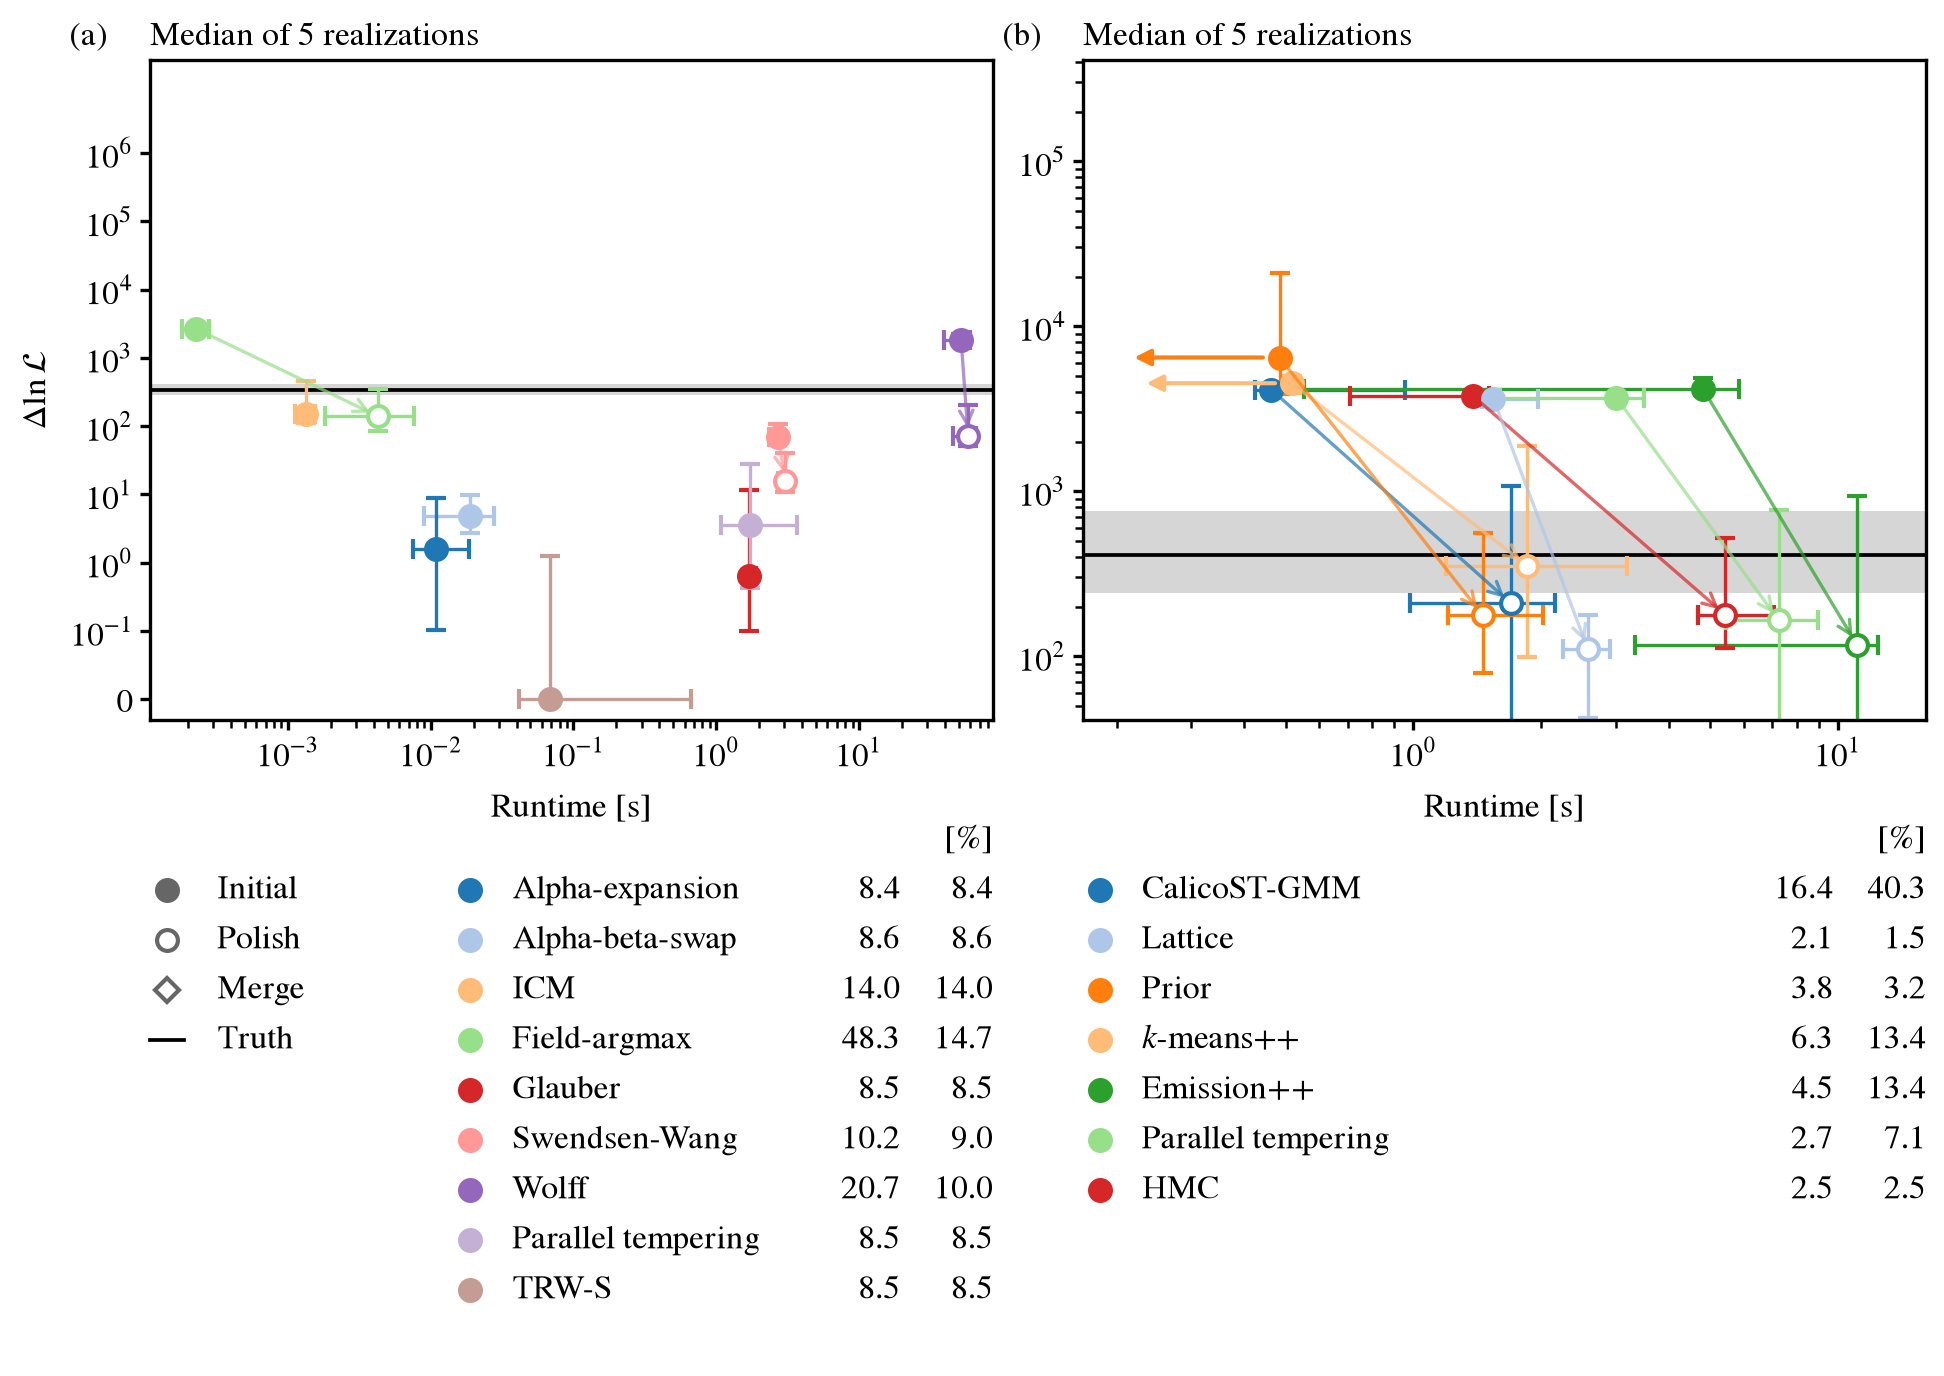
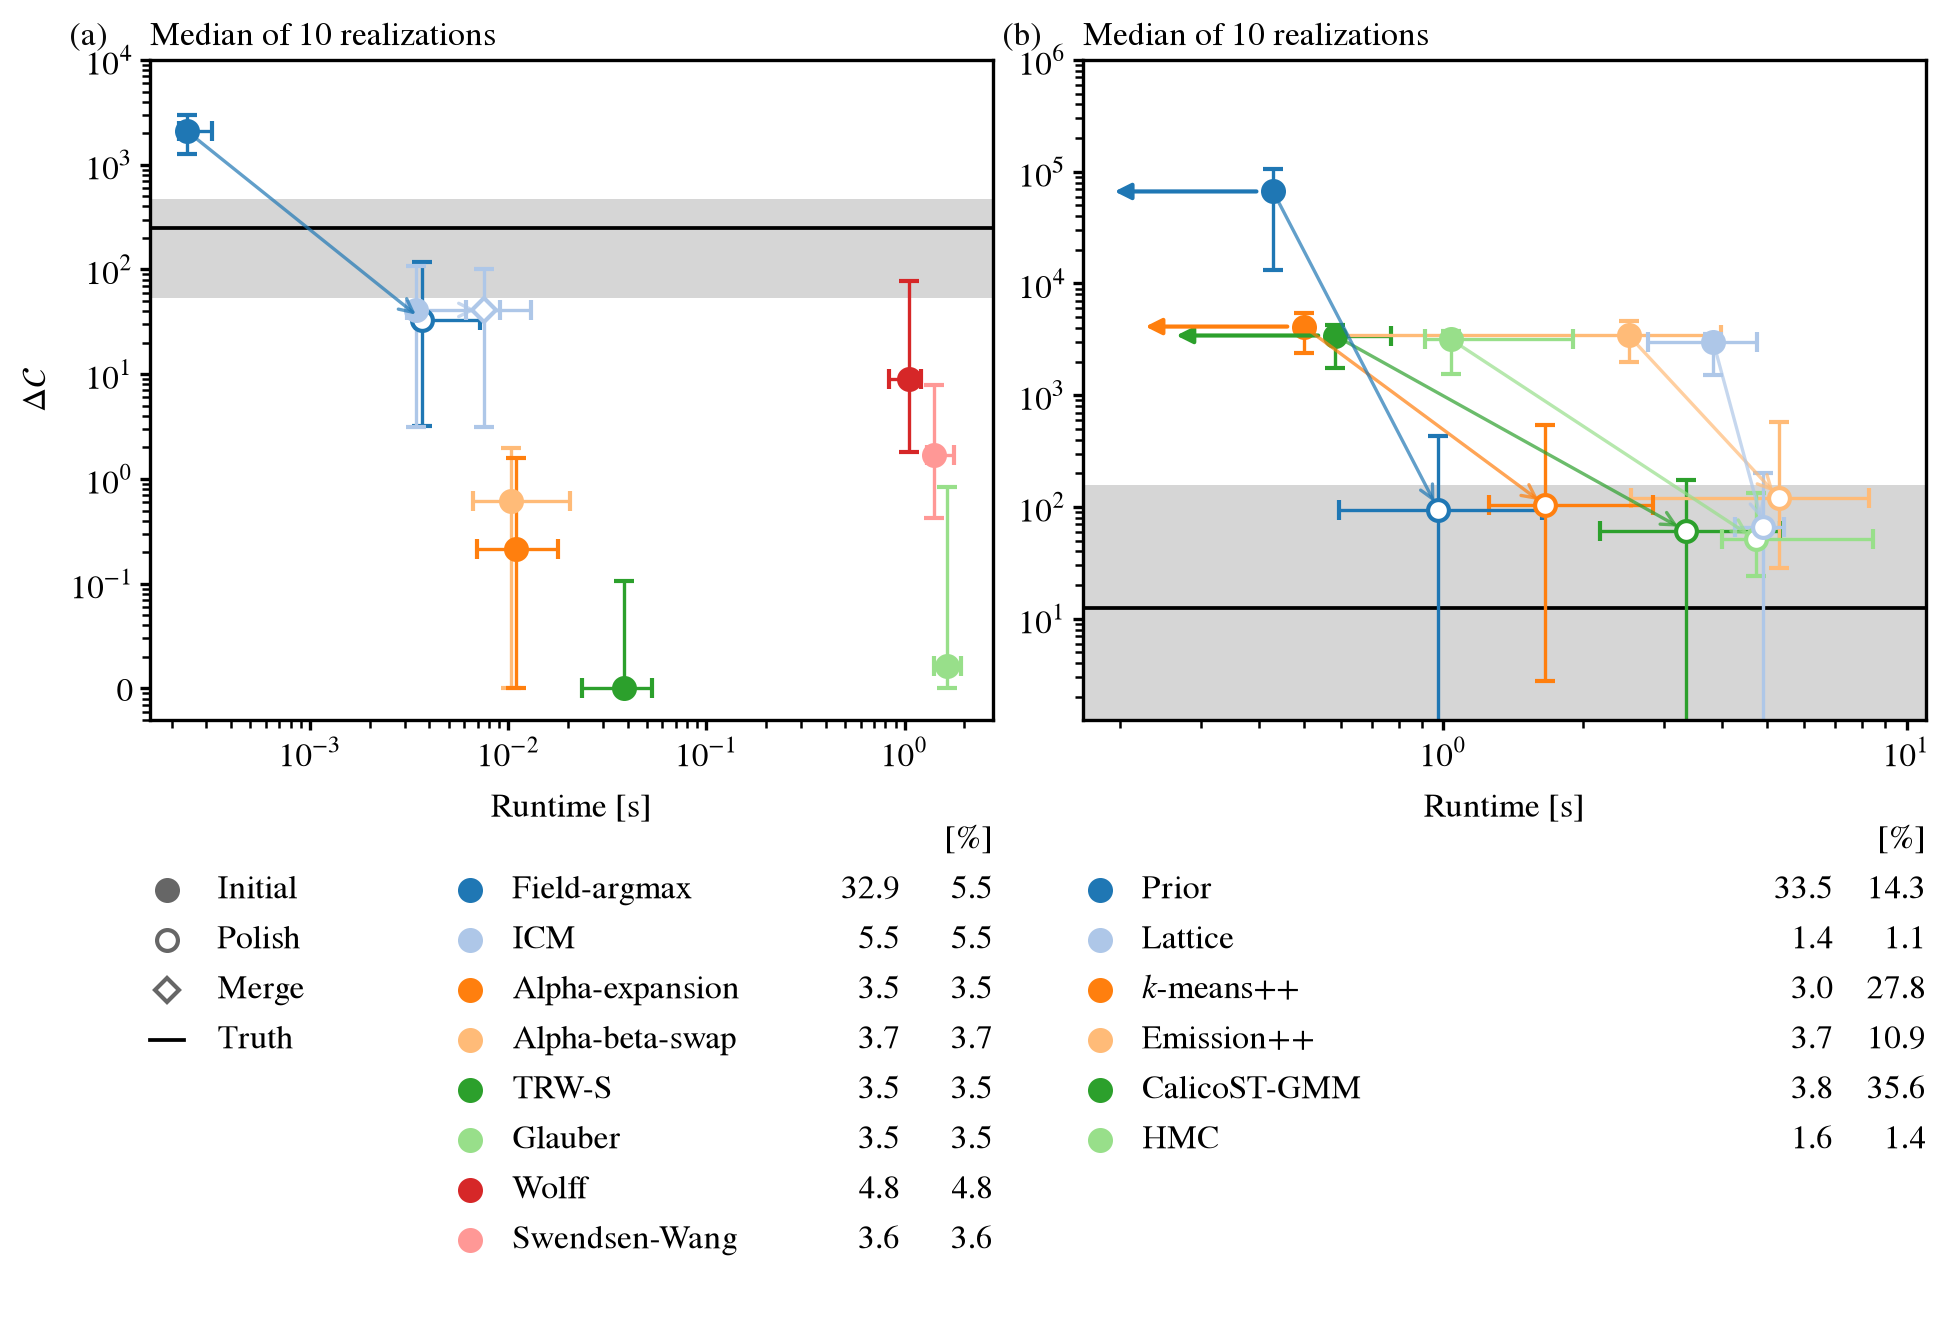
solver_combined re-rendered: study15 at sal 5d59752c, the new order and Delta C
Records: the smoke's Potts stream (98b6a6aa) and copy-state stream
(dbdc811c) on sim/manifests/study15.toml, 10 realizations x 1 start, at
sal 5d59752c (#815); drawn at 009cf46.

Claude-Session: https://claude.ai/code/session_01JXaY8ogGJw3Lo2bAgEaAaH

diff --git a/docs/plots/paper/solver_combined.md b/docs/plots/paper/solver_combined.md
@@ -1,18 +1,18 @@
 # solver_combined.png
 
-Drawn at code `4a8d75b` from two records on `sim/manifests/dev_tree_1s_hard.toml`, each problem built by
+Drawn at code `009cf46` from two records on `sim/manifests/study15.toml`, each problem built by
 `run_cnaster_port --sal` at the planted clones (`port.studies.stage`, #730, #742):
 
 | Panel | Record | Data hash | Problems | Starts | Samplers |
 | --- | --- | --- | --- | --- | --- |
-| (a) spatial solvers | `port.studies.potts_stream` | `342eb052` | 5 | 5 | settings file |
-| (b) copy-state starts | `port.studies.copy_state_stream` | `951739e2` | 5 | 5 | settings file |
+| (a) spatial solvers | `port.studies.potts_stream` | `98b6a6aa` | 10 | 1 | settings file |
+| (b) copy-state starts | `port.studies.copy_state_stream` | `dbdc811c` | 10 | 1 | settings file |
 
 Each sampler reads its settings file (`potts_sampler_settings.json`, `copy_sampler_settings.json`),
 calibrated by `run_calibrate` on realizations 0-4, held out from these
 panels (T- #777). (a)'s annealed samplers, Wolff included, take the schedule `sal`'s `tune_schedule`
-chose from its declared ramps, raced from common random numbers and ranked after ICM; the tempering
-ladder is `sal`'s, adapted per run. (b)'s samplers sample the run's own Baum-Welch objective, and their
+chose from its declared ramps, raced from common random numbers and ranked after ICM. (b)'s samplers
+sample the run's own Baum-Welch objective, and their
 settings were ranked by the log-likelihood after it.
 
 **The two y axes are different quantities.** (a): a run's Potts energy less TRW-S's lower bound on
